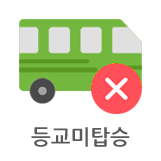
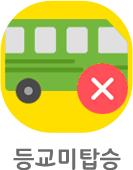
버튼 이미지 변경

diff --git a/kidsstory/src/main/resources/templates/views/main/main_teacher.html b/kidsstory/src/main/resources/templates/views/main/main_teacher.html
@@ -12,10 +12,10 @@
 			display :block;
 			margin: 0;
 			width: 25vw;
-			height: 25vw;
-			border: 1px solid #EEEEEE;
+			height: 32vw;
+/* 			border: 1px solid #EEEEEE; */
 			float: left;
-			padding: 2vw;
+			padding: 3vw;
 		}
 		.button-wrap-menu {
 			display :inline-block;

diff --git a/kidsstory/src/main/resources/templates/views/main/main_parents.html b/kidsstory/src/main/resources/templates/views/main/main_parents.html
@@ -13,10 +13,10 @@
 			display :block;
 			margin: 0;
 			width: 25vw;
-			height: 25vw;
-			border: 1px solid #EEEEEE;
+			height: 32vw;
+/* 			border: 1px solid #EEEEEE; */
 			float: left;
-			padding: 2vw;
+			padding: 3vw;
 		}
 		.buttonWrap a img.menuBtn {
 			width: 100%;
